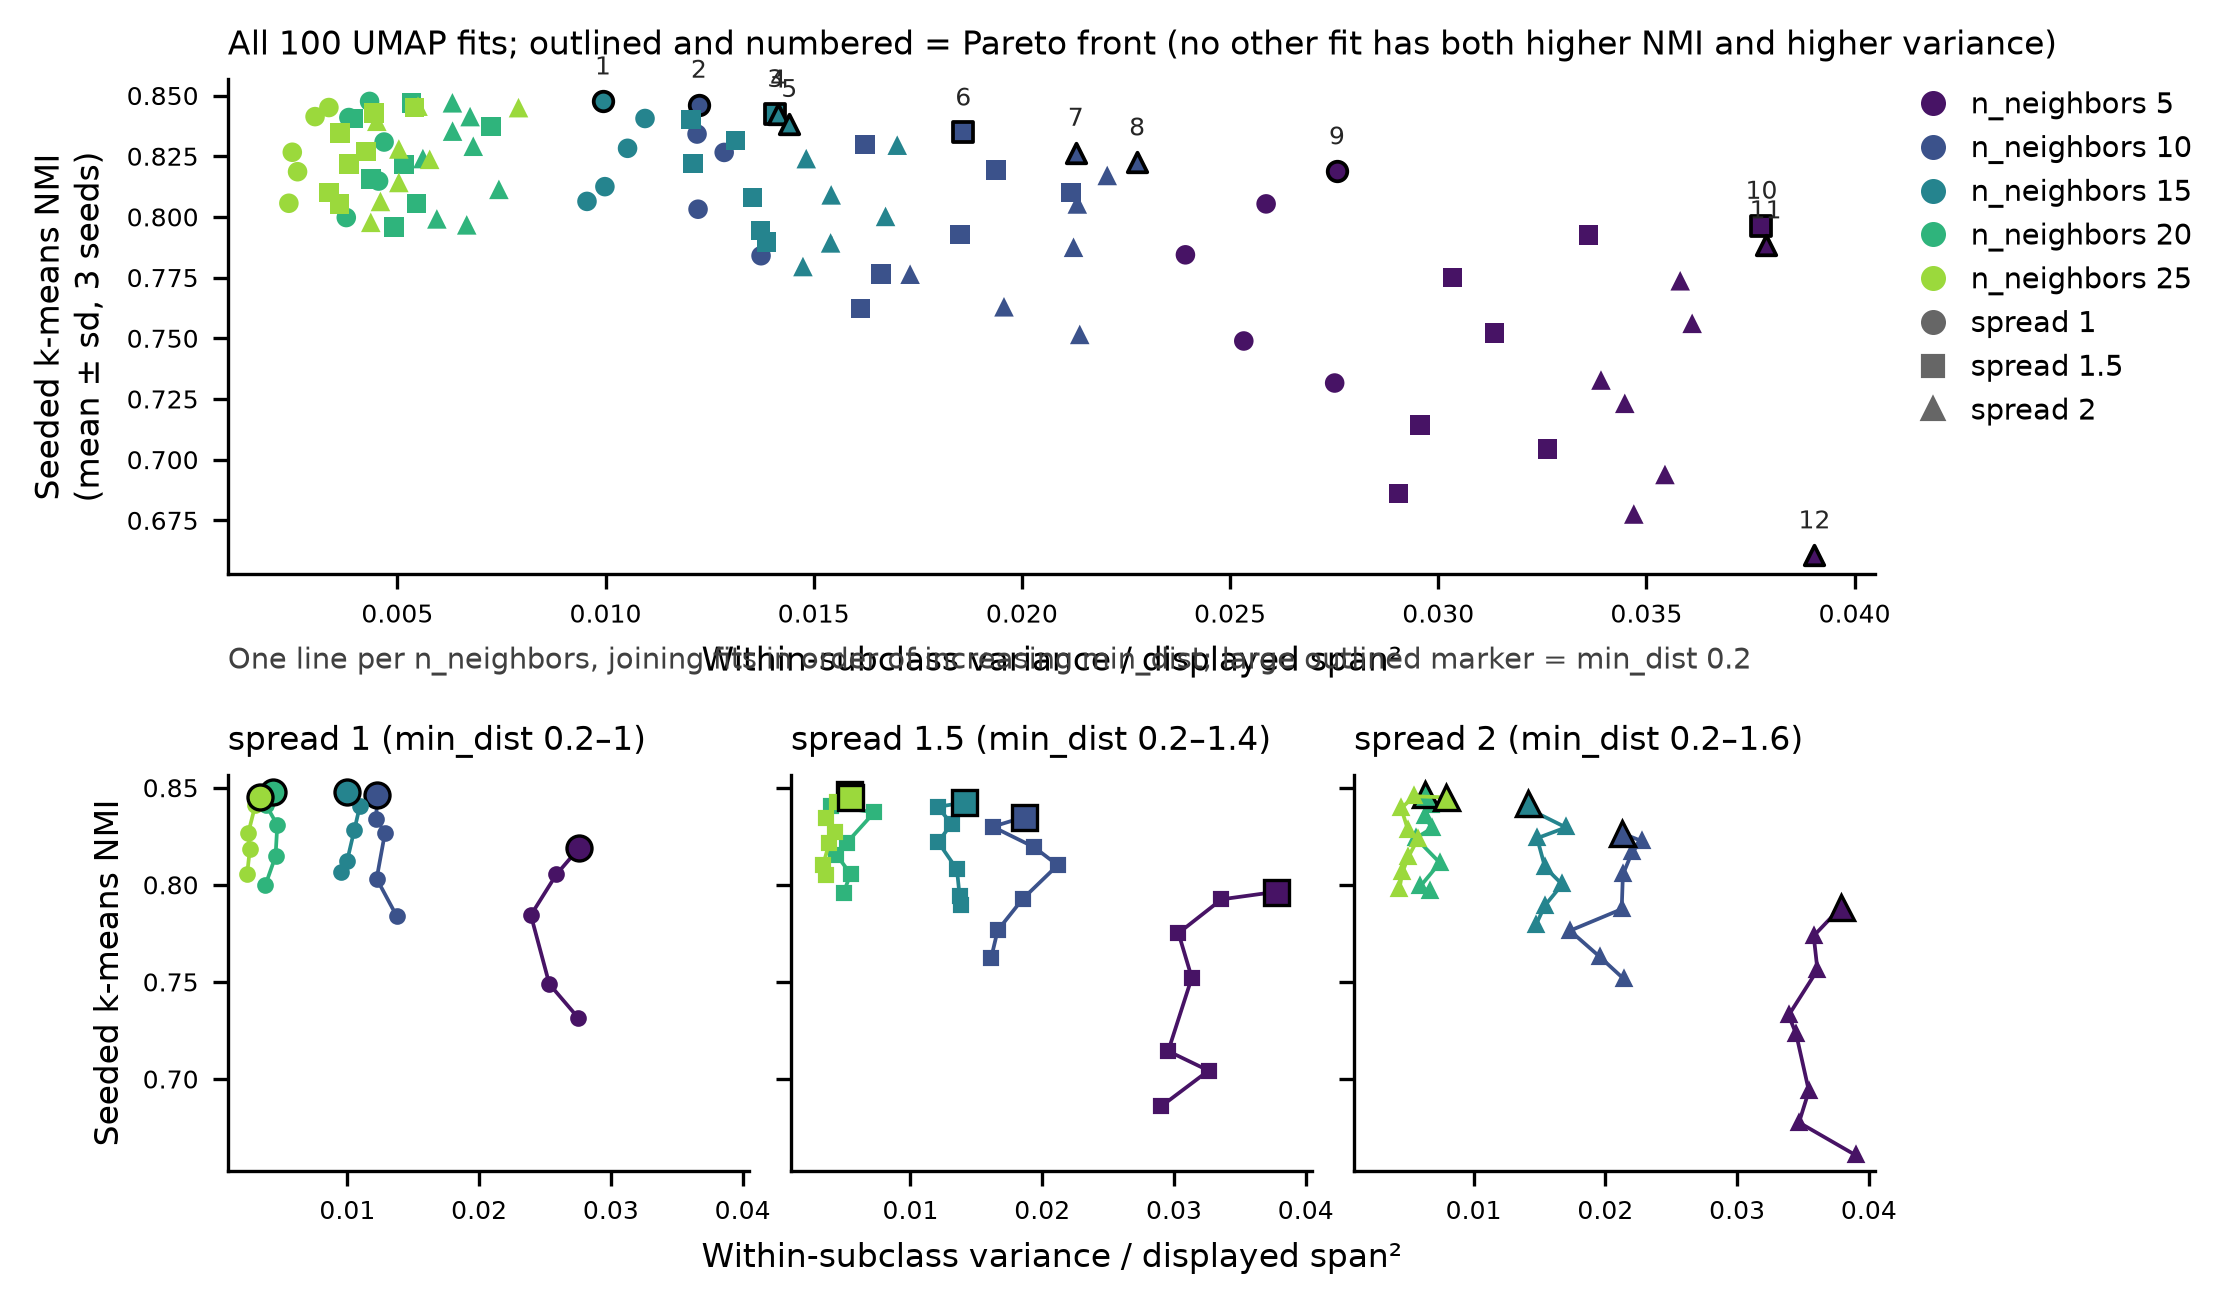
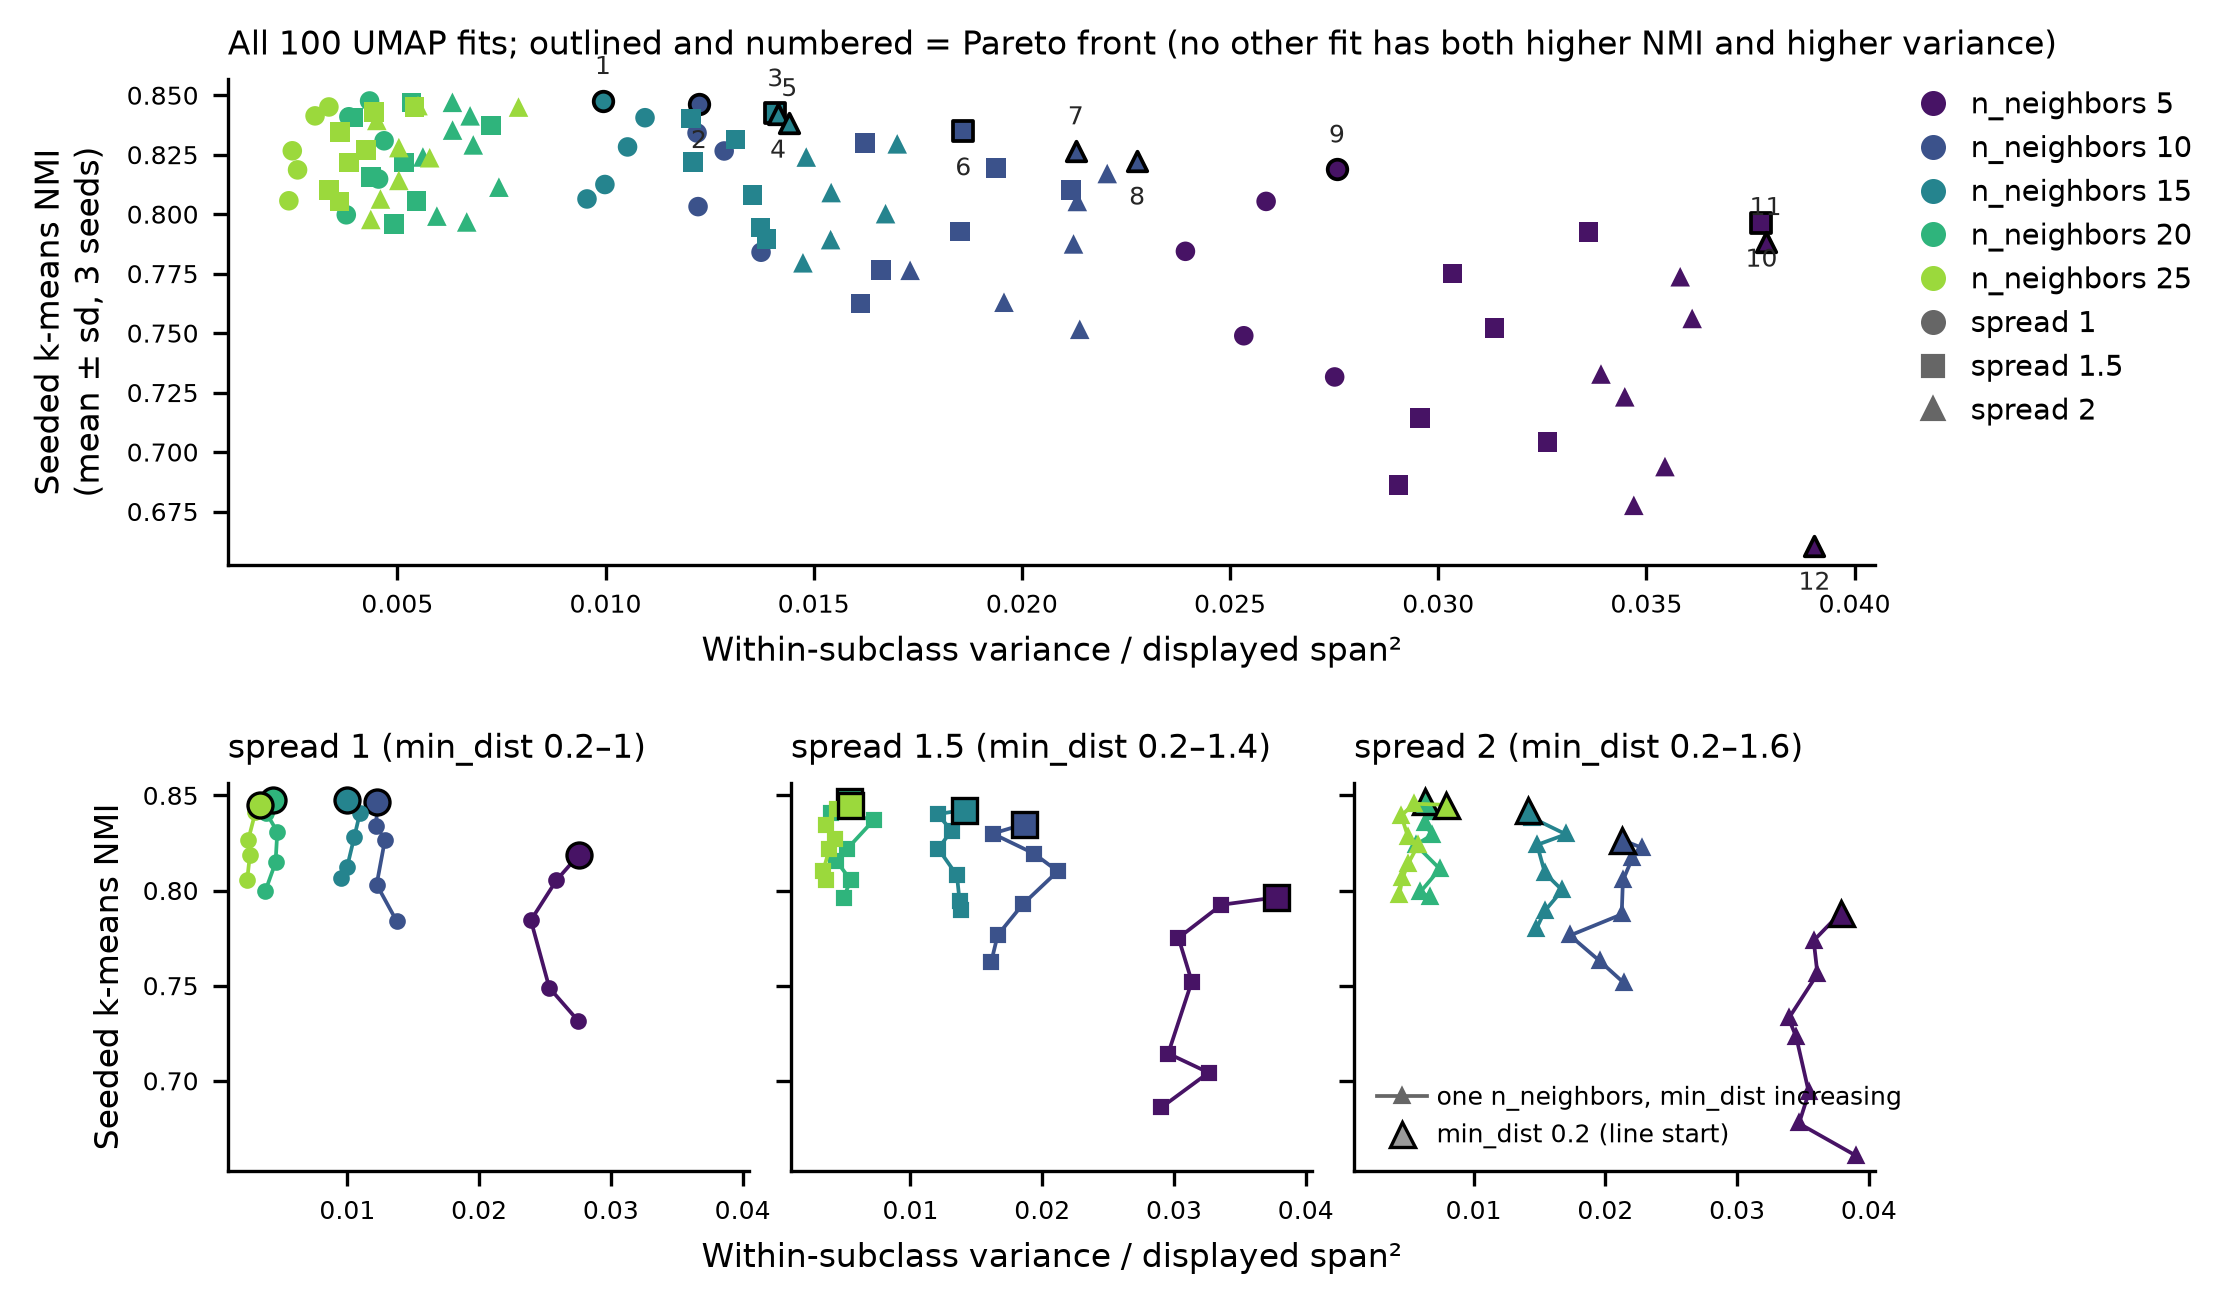
fix(plots): legend for facet lines, alternate Pareto labels

diff --git a/src/bloom_umaps/plots.py b/src/bloom_umaps/plots.py
@@ -80,7 +80,7 @@ def nmi_vs_variance(m: pd.DataFrame, out, xcol: str = "v_span") -> list[str]:
     }[xcol]
 
     fig = plt.figure(figsize=(180 * MM, 120 * MM))
-    gs = fig.add_gridspec(2, 3, height_ratios=[1.25, 1], hspace=0.45, wspace=0.08)
+    gs = fig.add_gridspec(2, 3, height_ratios=[1.25, 1], hspace=0.5, wspace=0.08)
     ax = fig.add_subplot(gs[0, :])
     for i, r in m.iterrows():
         ax.errorbar(
@@ -98,13 +98,14 @@ def nmi_vs_variance(m: pd.DataFrame, out, xcol: str = "v_span") -> list[str]:
         )
     order = np.flatnonzero(front)[np.argsort(x[front])]
     for k, i in enumerate(order, 1):
+        up = k % 2 == 1  # alternate above / below so near-coincident neighbours stay legible
         ax.annotate(
             str(k),
             (x[i], y[i]),
-            xytext=(0, 5),
+            xytext=(0, 5 if up else -6),
             textcoords="offset points",
             ha="center",
-            va="bottom",
+            va="bottom" if up else "top",
             fontsize=6,
             color="0.15",
         )
@@ -158,13 +159,32 @@ def nmi_vs_variance(m: pd.DataFrame, out, xcol: str = "v_span") -> list[str]:
             a.set_ylabel("Seeded k-means NMI")
         else:
             a.tick_params(labelleft=False)
-    fig.text(
-        axs[0].get_position().x0,
-        axs[0].get_position().y1 + 0.075,
-        "One line per n_neighbors, joining fits in order of increasing min_dist; "
-        "large outlined marker = min_dist 0.2",
-        fontsize=7,
-        color="0.25",
+    axs[-1].legend(
+        handles=[
+            Line2D(
+                [],
+                [],
+                color="0.4",
+                lw=0.9,
+                marker="^",
+                ms=3,
+                label="one n_neighbors, min_dist increasing",
+            ),
+            Line2D(
+                [],
+                [],
+                ls="none",
+                marker="^",
+                ms=6,
+                mfc="0.6",
+                mec="k",
+                mew=0.8,
+                label="min_dist 0.2 (line start)",
+            ),
+        ],
+        loc="lower left",
+        fontsize=6,
+        handletextpad=0.4,
     )
     fig.savefig(out, bbox_inches="tight")
     plt.close(fig)
